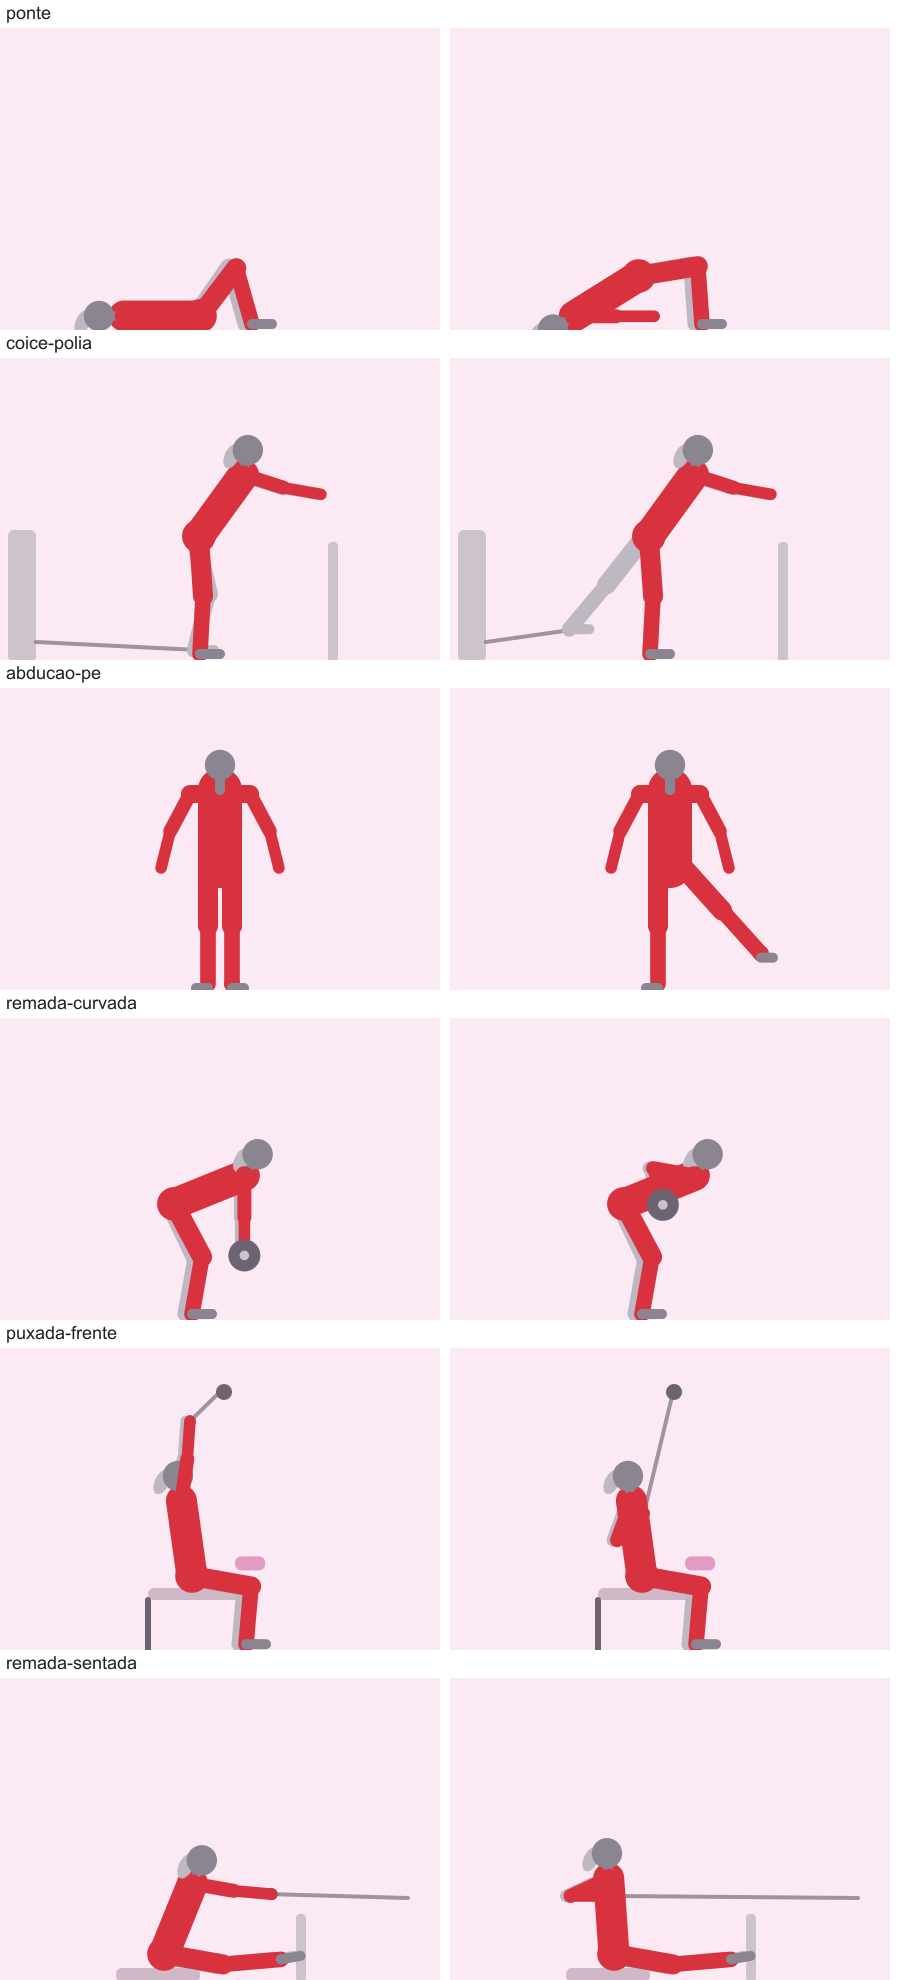
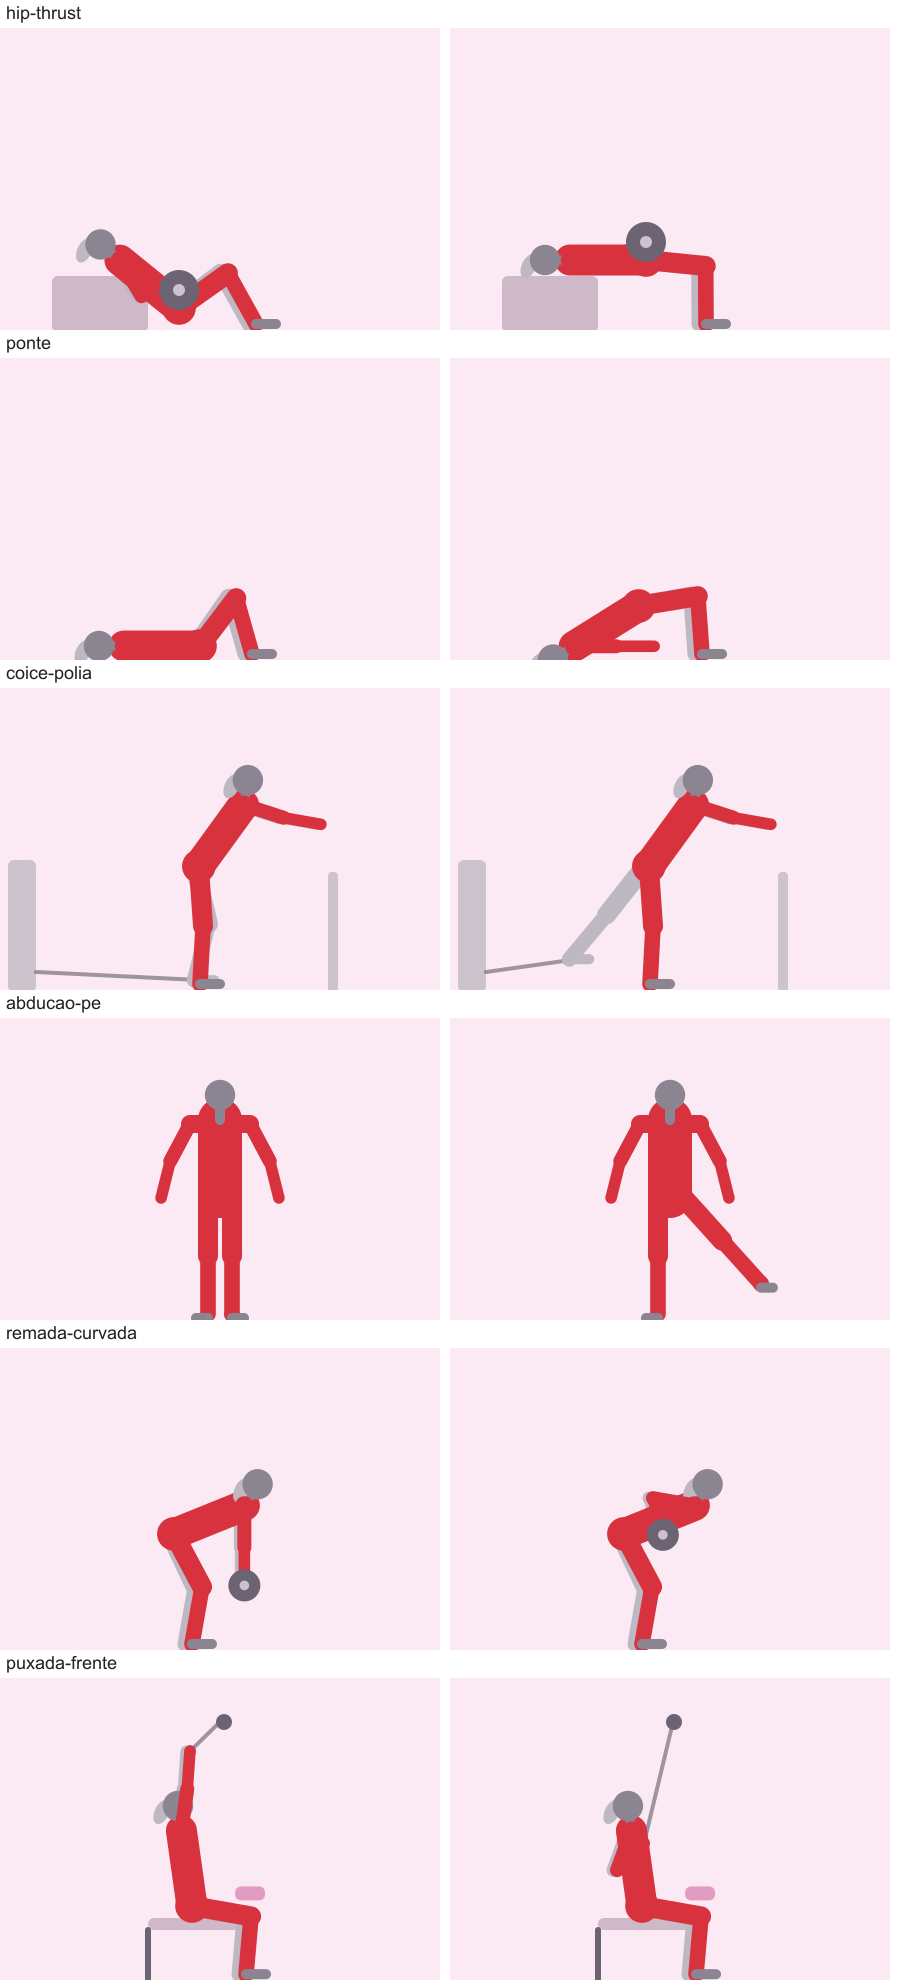
Importação de vídeo mais precisa: cadeira abdutora, bom dia, kickbacks, tempos em links e séries sem vazar entre exercícios

diff --git a/src/data/library.ts b/src/data/library.ts
@@ -84,7 +84,7 @@ export const LIBRARY: LibExercise[] = [
     cautions: ['Nunca solte as mãos da trava de segurança ao terminar sem antes travar a máquina.', 'Se a lombar descolar do encosto, reduza a profundidade.'],
   }),
   mk({
-    id: 'afundo', name: 'Afundo (passada estática) com halteres', aliases: ['afundo', 'passada', 'avanço', 'lunge', 'lunges', 'split squat', 'agachamento afundo', 'passada estática'],
+    id: 'afundo', name: 'Afundo (passada estática) com halteres', aliases: ['afundo', 'passada', 'avanço', 'lunge', 'lunges', 'split squat', 'agachamento afundo', 'passada estática', 'agachamento ao fundo', 'passada com halteres'],
     group: 'Quadríceps', secondary: ['Glúteos', 'Posteriores'],
     description: 'Um pé à frente e outro atrás; você sobe e desce em linha reta. Trabalha cada perna separadamente.',
     equipment: ['Halteres (opcional)'], sets: 3, reps: '10-12 por perna', rest: 75, difficulty: 'intermediario', location: ['casa', 'academia'], loadable: true,
@@ -204,7 +204,7 @@ export const LIBRARY: LibExercise[] = [
     cautions: ['Se sentir mais a lombar do que o glúteo, diminua a altura.'],
   }),
   mk({
-    id: 'coice-polia', name: 'Coice de glúteo na polia', aliases: ['coice na polia', 'coice de glúteo', 'glúteo na polia', 'cable kickback', 'one legged cable kickback', 'kickback glúteo'],
+    id: 'coice-polia', name: 'Coice de glúteo na polia', aliases: ['coice na polia', 'coice de glúteo', 'glúteo na polia', 'cable kickback', 'one legged cable kickback', 'kickback glúteo', 'kickback', 'coice', 'coice de perna na polia'],
     group: 'Glúteos', secondary: ['Posteriores'],
     description: 'Estenda a perna para trás contra a resistência da polia. Isola o glúteo.',
     equipment: ['Polia baixa', 'Tornozeleira'], sets: 3, reps: '12-15 por perna', rest: 60, difficulty: 'intermediario', location: ['academia'], loadable: true,
@@ -216,7 +216,7 @@ export const LIBRARY: LibExercise[] = [
     cautions: ['Use carga que permita controle total.'],
   }),
   mk({
-    id: 'abducao-pe', name: 'Abdução de perna em pé', aliases: ['abdução de quadril', 'abdução em pé', 'elevação lateral de perna', 'abdutora', 'cadeira abdutora', 'thigh abductor', 'abdução de perna'],
+    id: 'abducao-pe', name: 'Abdução de perna em pé', aliases: ['abdução de quadril', 'abdução em pé', 'elevação lateral de perna', 'abdução de perna'],
     group: 'Glúteos', secondary: ['Abdômen'],
     description: 'Levante a perna para o lado. Trabalha a lateral dos glúteos e ajuda na estabilidade do quadril.',
     equipment: ['Tornozeleira (opcional)', 'Parede ou apoio (opcional)'], sets: 3, reps: '15 por perna', rest: 45, difficulty: 'iniciante', location: ['casa', 'academia'], loadable: false,
@@ -466,6 +466,30 @@ export const LIBRARY: LibExercise[] = [
     mistakes: ['Inclinar o tronco para trás.', 'Aterrissar com o calcanhar.', 'Prender a respiração.'],
     tips: ['Versão suave: marche no lugar sem saltar.'],
     cautions: ['Se sentir dor nos joelhos, faça a versão sem impacto.'],
+  }),
+  mk({
+    id: 'cadeira-abdutora', name: 'Cadeira abdutora', aliases: ['cadeira abdutora', 'abdutora', 'thigh abductor', 'máquina abdutora', 'abdução na máquina'],
+    group: 'Glúteos', secondary: ['Quadríceps'], demo: '',
+    description: 'Sentada na máquina, abra as pernas contra a resistência. Trabalha a lateral dos glúteos (glúteo médio).',
+    equipment: ['Máquina abdutora'], sets: 3, reps: '15-20', rest: 60, difficulty: 'iniciante', location: ['academia'], loadable: true,
+    start: 'Sentada com as costas bem apoiadas no encosto e os pés nos apoios. Almofadas na parte externa dos joelhos, pernas juntas.',
+    steps: ['Contraia o abdômen e mantenha o quadril colado ao assento.', 'Abra as pernas contra a resistência, até onde conseguir sem descolar as costas.', 'Aperte os glúteos por um segundo com as pernas abertas.', 'Volte devagar, controlando a carga, sem deixar as anilhas baterem.'],
+    breathing: 'Expire ao abrir as pernas, inspire ao fechar.',
+    mistakes: ['Usar impulso para abrir.', 'Descolar as costas do encosto.', 'Fechar rápido e deixar o peso cair.'],
+    tips: ['Incline levemente o tronco à frente para sentir mais o glúteo.', 'Uma série final com redução de carga (drop set) é comum nesse exercício.'],
+    cautions: ['Se sentir desconforto no quadril, reduza a carga e a abertura.'],
+  }),
+  mk({
+    id: 'bom-dia', name: 'Bom dia (good morning)', aliases: ['bom dia', 'bom dia na máquina', 'good morning', 'bom-dia', 'flexão de tronco'],
+    group: 'Posteriores', secondary: ['Glúteos', 'Costas'],
+    description: 'Incline o tronco à frente com a coluna reta, levando o quadril para trás. Trabalha posterior da coxa, glúteos e lombar.',
+    equipment: ['Barra, halter ou máquina'], sets: 3, reps: '12-15', rest: 75, difficulty: 'intermediario', location: ['academia', 'casa'], loadable: true,
+    start: 'Em pé, pés na largura do quadril, joelhos levemente dobrados. Barra apoiada nas costas (ou mãos atrás da cabeça, sem peso).',
+    steps: ['Contraia o abdômen e mantenha a coluna reta.', 'Empurre o quadril para trás e incline o tronco à frente, como quem fecha uma porta com o glúteo.', 'Desça até sentir a parte de trás da coxa alongar, sem arredondar as costas.', 'Volte à posição inicial empurrando o quadril para frente e apertando os glúteos.'],
+    breathing: 'Inspire ao descer, expire ao subir.',
+    mistakes: ['Arredondar as costas.', 'Dobrar demais os joelhos (vira agachamento).', 'Descer além do ponto em que a coluna se mantém reta.'],
+    tips: ['Comece sem carga para aprender o movimento de dobrar no quadril.', 'Olhe para um ponto à frente no chão, sem encolher o pescoço.'],
+    cautions: ['Use carga leve: a lombar trabalha bastante. Dor aguda na lombar: pare.'],
   }),
 ]
 

diff --git a/src/lib/youtube.ts b/src/lib/youtube.ts
@@ -44,49 +44,71 @@ export async function fetchTranscript(id: string): Promise<TranscriptResult> {
 
 const fmt = (sec: number) => `${Math.floor(sec / 60)}:${String(Math.floor(sec % 60)).padStart(2, '0')}`
 
-/** Converte "[m:ss]" ou "m:ss" ao início da linha em segundos. */
+/** Primeiro tempo da linha, em segundos: "[1:25]", "01:45", "[02:22](…?t=142s)" ou "t=105s". */
 function lineStart(line: string): number | null {
-  const m = line.match(/^\s*\[?(?:(\d+):)?(\d{1,2}):(\d{2})\]?/)
-  if (!m) return null
-  return (m[1] ? parseInt(m[1], 10) * 3600 : 0) + parseInt(m[2], 10) * 60 + parseInt(m[3], 10)
+  const m = line.match(/(?:^|[^\d])(?:(\d{1,2}):)?(\d{1,2}):(\d{2})(?!\d)/)
+  if (m) return (m[1] ? parseInt(m[1], 10) * 3600 : 0) + parseInt(m[2], 10) * 60 + parseInt(m[3], 10)
+  const t = line.match(/[?&]t=(\d+)s?/)
+  return t ? parseInt(t[1], 10) : null
 }
 
 function escapeRe(s: string) { return s.replace(/[.*+?^${}()|[\]\\]/g, '\\$&') }
 
+/** Remove marcação (links, listas, negrito) e tempos, deixando só o texto falado. */
+function cleanLine(l: string): string {
+  return norm(
+    l.replace(/\[([^\]]*)\]\([^)]*\)/g, ' ') // [01:45](link) -> some
+      .replace(/^\s*(?:[-*•]\s+|\d+[.)]\s+)/, '')
+      .replace(/^\s*\[?[\d:]+\]?\s*/, '')
+      .replace(/[*_`#>]/g, ''),
+  )
+}
+
+const NAMES = LIBRARY.map((ex) => ({ ex, names: [ex.name, ...ex.aliases].map(norm).sort((a, b) => b.length - a.length) }))
+
+/** Exercícios citados numa linha. Quando um nome contém outro (ex.: "agachamento sumô" e "agachamento"), vale o mais específico. */
+function matchLine(text: string): { ex: (typeof LIBRARY)[number]; len: number }[] {
+  const out: { ex: (typeof LIBRARY)[number]; len: number }[] = []
+  for (const { ex, names } of NAMES) {
+    for (const n of names) {
+      if (new RegExp(`(^|[^a-z0-9])${escapeRe(n)}(s|es)?([^a-z0-9]|$)`).test(text)) { out.push({ ex, len: n.length }); break }
+    }
+  }
+  const max = Math.max(0, ...out.map((o) => o.len))
+  return out.filter((o) => o.len === max)
+}
+
 /**
  * Identifica exercícios da biblioteca mencionados na transcrição (por nome ou apelido), na ordem em que aparecem.
- * Procura séries/repetições citadas perto da menção. Só reconhece o que realmente aparece no texto.
+ * Procura séries/repetições citadas na própria linha (ou na seguinte, se ela não citar outro exercício).
+ * Só reconhece o que realmente aparece no texto: não inventa nada.
  */
 export function extractExercises(transcript: string): VideoExercise[] {
   const lines = transcript.split(/\r?\n/).filter((l) => l.trim())
-  const hits: { idx: number; ex: (typeof LIBRARY)[number]; start: number | null; ctx: string }[] = []
-  let lastStart: number | null = null
-  const flat: { text: string; start: number | null }[] = lines.map((l) => {
-    const s = lineStart(l)
-    if (s !== null) lastStart = s
-    return { text: norm(l.replace(/^\s*\[?[\d:]+\]?\s*/, '')), start: s ?? lastStart }
+  let last: number | null = null
+  const flat = lines.map((raw) => {
+    const s = lineStart(raw)
+    if (s !== null) last = s
+    const text = cleanLine(raw)
+    return { text, start: s ?? last, hits: matchLine(text) }
   })
   const seen = new Set<string>()
+  const out: VideoExercise[] = []
   for (const [i, l] of flat.entries()) {
-    for (const ex of LIBRARY) {
-      if (seen.has(ex.id)) continue
-      const names = [ex.name, ...ex.aliases].map(norm).sort((a, b) => b.length - a.length)
-      const found = names.find((n) => new RegExp(`(^|[^a-z0-9])${escapeRe(n)}(s|es)?([^a-z0-9]|$)`).test(l.text))
-      if (found) {
-        seen.add(ex.id)
-        hits.push({ idx: i, ex, start: l.start, ctx: flat.slice(i, i + 3).map((x) => x.text).join(' ') })
-      }
-    }
-  }
-  return hits
-    .sort((a, b) => a.idx - b.idx)
-    .map((h) => {
+    for (const h of l.hits) {
+      if (seen.has(h.ex.id)) continue
+      seen.add(h.ex.id)
+      let ctx = l.text
+      const nx = flat[i + 1]
+      if (nx && !nx.hits.length && !/\d/.test(l.text)) ctx += ' ' + nx.text
       let sets: number | null = null
       let reps = ''
-      const a = h.ctx.match(/(\d{1,2})\s*(?:series|serie)\s*(?:de|com)?\s*(\d{1,3})/)
-      const b = h.ctx.match(/(\d{1,2})\s*x\s*(\d{1,3})/)
-      const c = h.ctx.match(/(\d{1,3})\s*(?:repeticoes|repeticao|reps|vezes)/)
+      const a = ctx.match(/(\d{1,2})\s*(?:series|serie)\s*(?:de|com)?\s*(\d{1,3})/)
+      const b = ctx.match(/(\d{1,2})\s*x\s*(\d{1,3})/)
+      const c = ctx.match(/(\d{1,3})\s*(?:repeticoes|repeticao|reps|vezes)/)
       if (a) { sets = +a[1]; reps = a[2] } else if (b) { sets = +b[1]; reps = b[2] } else if (c) reps = c[1]
-      return { name: h.ex.name, exercise_id: h.ex.id, start: h.start, sets, reps, note: '', selected: true }
-    })
+      out.push({ name: h.ex.name, exercise_id: h.ex.id, start: l.start, sets, reps, note: '', selected: true })
+    }
+  }
+  return out
 }

diff --git a/src/lib/youtube.test.ts b/src/lib/youtube.test.ts
@@ -1,0 +1,26 @@
+import { describe, expect, it } from 'vitest'
+import { extractExercises, parseVideoId } from './youtube'
+
+const RESUMO = `* Aquecimento isolado: Sugere-se a realização de 15 repetições para cada lado ([01:45](https://www.youtube.com/watch?t=105s)-[02:00](https://www.youtube.com/watch?t=120s)).
+* Cadeira Abdutora: A primeira série tem 20 repetições, a segunda 15, a terceira 12 e, na última série, é feito um drop set com mais 12 repetições ([02:22](https://www.youtube.com/watch?t=142s)-[05:52](https://www.youtube.com/watch?t=352s)).
+* Elevação Pélvica: O exercício segue uma progressão que inclui 15 repetições na primeira série ([07:07](https://www.youtube.com/watch?t=427s)-[13:20](https://www.youtube.com/watch?t=800s)).
+* Agachamento ao fundo (Passada): A regra mínima é de 20 repetições no total ([14:34](https://www.youtube.com/watch?t=874s)-[14:40](https://www.youtube.com/watch?t=880s)).
+* Bom Dia (na máquina): São realizadas 15 repetições na primeira série e 12 nas seguintes ([19:44](https://www.youtube.com/watch?t=1184s)-[23:10](https://www.youtube.com/watch?t=1390s)).
+* Agachamento Sumo: A orientação é realizar entre 12 a 15 repetições concentradas ([25:29](https://www.youtube.com/watch?t=1529s)-[25:32](https://www.youtube.com/watch?t=1532s)).
+* Kickbacks: São feitas 3 séries de 15 repetições para cada perna ([28:44](https://www.youtube.com/watch?t=1724s)-[28:47](https://www.youtube.com/watch?t=1727s)).`
+
+describe('extração de exercícios do vídeo', () => {
+  it('reconhece cada exercício do resumo, na ordem, sem misturar', () => {
+    const r = extractExercises(RESUMO)
+    expect(r.map((x) => x.exercise_id)).toEqual(['cadeira-abdutora', 'hip-thrust', 'afundo', 'bom-dia', 'sumo', 'coice-polia'])
+    expect(r[0].start).toBe(142)
+    expect(r.find((x) => x.exercise_id === 'coice-polia')).toMatchObject({ sets: 3, reps: '15', start: 1724 })
+    expect(r.find((x) => x.exercise_id === 'sumo')).toMatchObject({ sets: null, start: 1529 })
+  })
+  it('não inventa: texto sem exercícios conhecidos devolve vazio', () => {
+    expect(extractExercises('[0:10] Olá pessoal, bem-vindos ao canal')).toEqual([])
+  })
+  it('lê o id do vídeo', () => {
+    expect(parseVideoId('https://youtu.be/dQw4w9WgXcQ?t=5')).toBe('dQw4w9WgXcQ')
+  })
+})

diff --git a/src/lib/session.ts b/src/lib/session.ts
@@ -34,7 +34,10 @@ export async function getSessionExercises(sessionId: string, includeRemoved = fa
 }
 
 export async function getSessionSets(sessionId: string): Promise<SessionSet[]> {
-  return alive(await db.session_sets.where('session_id').equals(sessionId).toArray()).sort((a, b) => a.set_index - b.set_index)
+  const pos = new Map((await db.session_exercises.where('session_id').equals(sessionId).toArray()).map((e) => [e.id, e.position]))
+  return alive(await db.session_sets.where('session_id').equals(sessionId).toArray()).sort(
+    (a, b) => (pos.get(a.session_exercise_id) ?? 0) - (pos.get(b.session_exercise_id) ?? 0) || a.set_index - b.set_index,
+  )
 }
 
 /* ---------------- criação ---------------- */

diff --git a/src/components/exercise.tsx b/src/components/exercise.tsx
@@ -27,7 +27,7 @@ export function ExVisual({ ex, controls = true, className = '' }: { ex: Ex; cont
           <Icon n="dumbbell" size={28} />
         </div>
         <b className="block mt-2">{ex.name}</b>
-        <span className="text-xs text-muted">Exercício personalizado: sem animação disponível.{steps.length ? ' Veja os passos abaixo.' : ''}</span>
+        <span className="text-xs text-muted">{ex.lib ? 'Sem animação para este exercício: siga o passo a passo abaixo.' : `Exercício personalizado: sem animação disponível.${steps.length ? ' Veja os passos abaixo.' : ''}`}</span>
       </div>
     </div>
   )

diff --git a/src/data/poses.ts b/src/data/poses.ts
@@ -72,6 +72,11 @@ export const POSES: Record<string, Demo> = {
     { plant: 96, torso: 62, neck: -35, arm: [-12, -12], leg: [18, 6] },
     [BB('wrist', 8)],
   ),
+  'bom-dia': side(
+    { plant: 96, torso: 3, arm: squatArms, leg: [4, 2] },
+    { plant: 96, torso: 68, neck: -30, arm: squatArms, leg: [18, 6] },
+    [{ k: 'plate', at: 'shoulder', r: 9, dx: -2 }],
+  ),
   terra: side(
     { plant: 96, torso: 50, neck: -30, arm: [0, 0], leg: [78, -28] },
     { plant: 96, torso: 0, arm: [0, 0], leg: [0, 0] },
